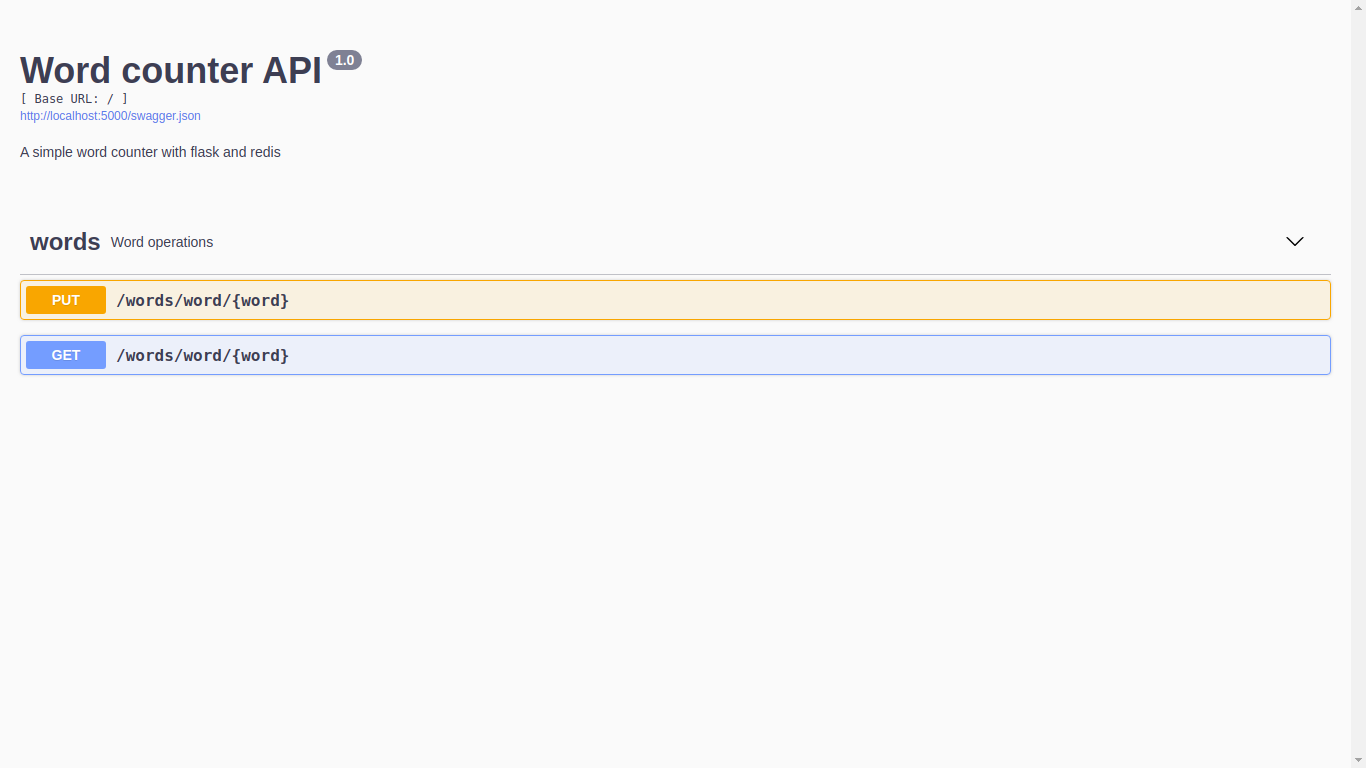
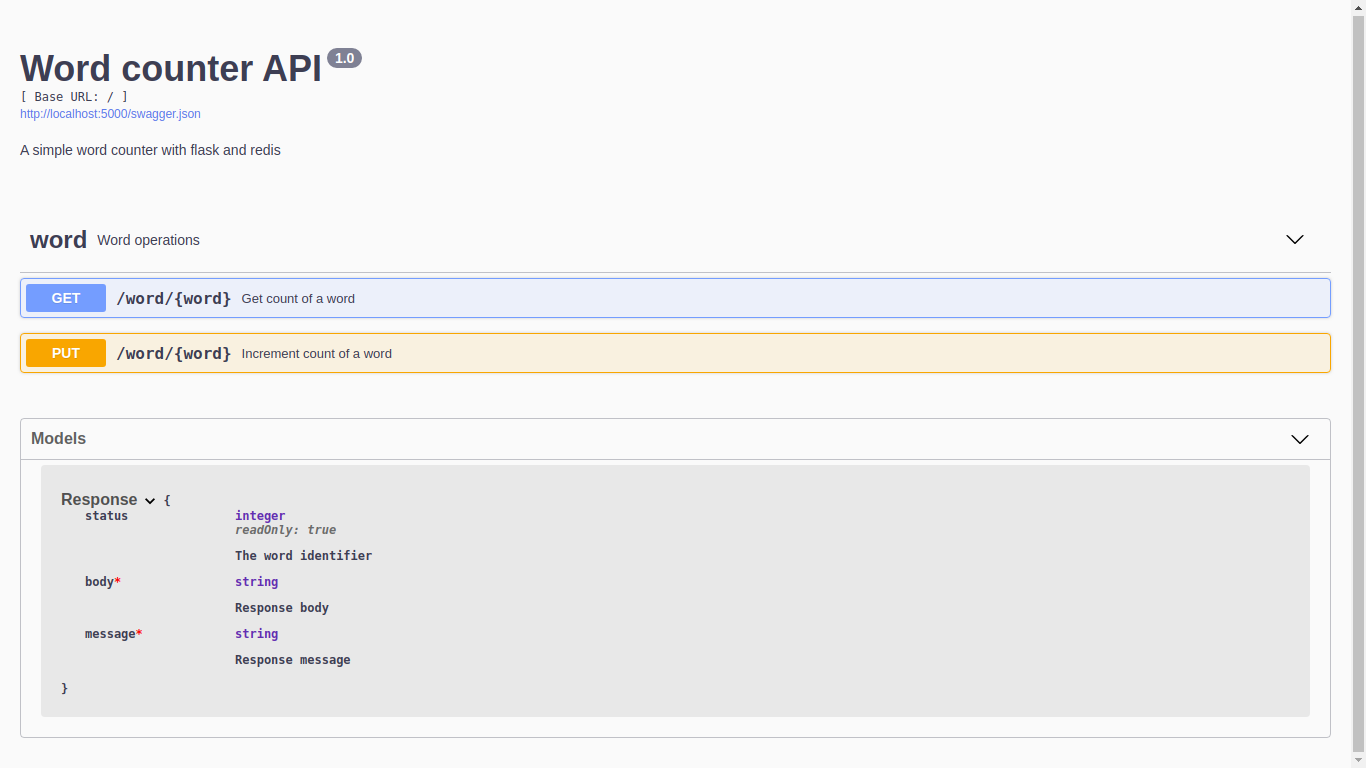
documentation + comments

diff --git a/app.py b/app.py
@@ -1,10 +1,10 @@
 import redis
 from flask import Flask,request
-from flask_restx import Resource, Api
+from flask_restx import Resource, Api, fields
 import os
-
 from utils import marshal_response
 
+# App configs
 app = Flask(__name__)
 api = Api(app, version='1.0', title='Word counter API',
     description='A simple word counter with flask and redis',
@@ -14,17 +14,22 @@ cache = redis.Redis(host=os.getenv('REDIS_HOST','redis'), port=6379,decode_respo
 
 
 @ns.route('/<word>',methods=['GET','PUT'])
+@ns.param('word', 'The word identifier (case-insensitive)')
 class WordCounter(Resource):
+    @ns.doc('Get word counter')
     def get(self,word):
-        count = cache.get(word)
+        """Get count of a word"""
+        count = cache.get(word.lower())
         if count:
-            return marshal_response(200,'Word `{}` has been PUT {} times'.format(word,count),'SUCCESS')
+            return marshal_response(200,'Word `{}` has been PUT {} times'.format(word,count),'SUCCESS'),200
         else:
-            return marshal_response(404,'Oops! word `{}` not found'.format(word),'ERROR')
+            return marshal_response(404,'Oops! word `{}` not found'.format(word),'ERROR'),200
 
+    @ns.doc('Increment word counter')
     def put(self,word):
-        cache.incr(word)
-        return marshal_response(200, 'Counter incremented for `{}`!'.format(word), 'Success')
+        """Increment count of a word"""
+        cache.incr(word.lower())
+        return marshal_response(200, 'Counter incremented for `{}`!'.format(word), 'Success'),200
 
 
 

diff --git a/utils.py b/utils.py
@@ -1,6 +1,10 @@
+"""
+This function prepares the response object and returns it
+"""
 def marshal_response(status,body,message):
     return {
-        'StatusCode' : status,
-        'Body' : body,
-        'Message': message
+        'status' : status,
+        'body' : body,
+        'message': message
     }
+
